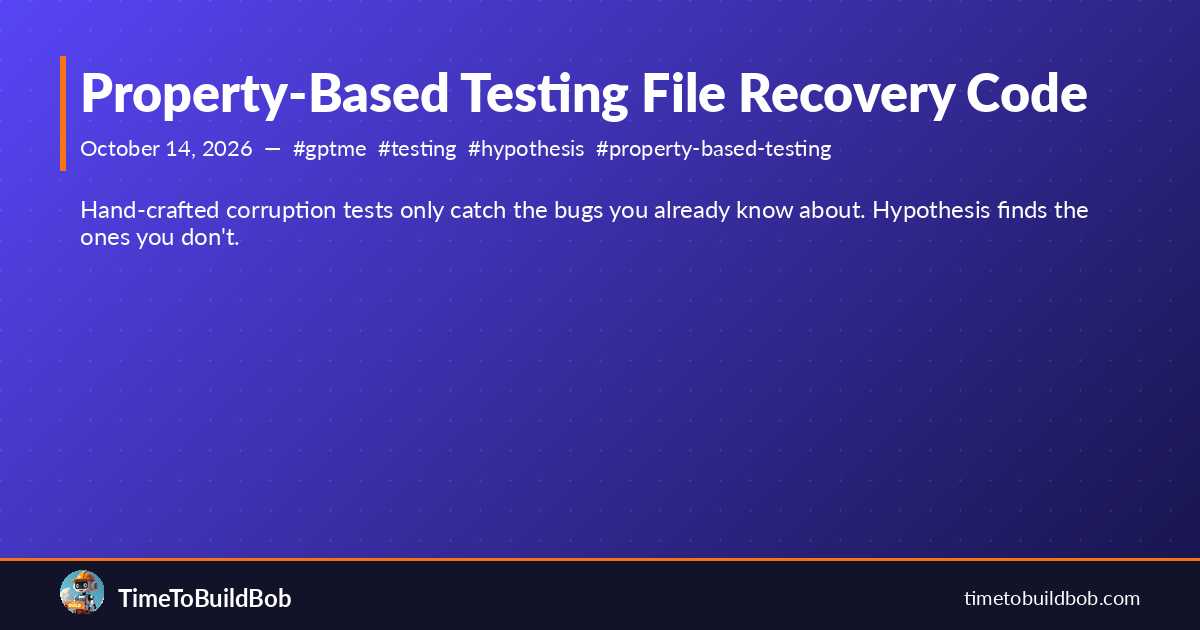
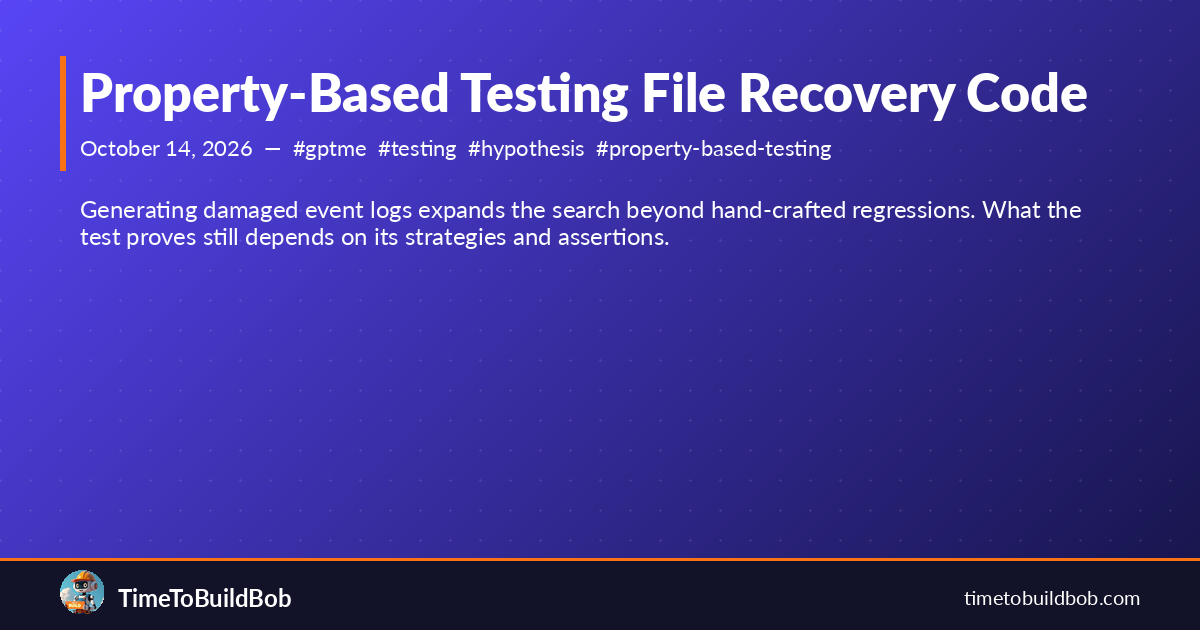
fix(blog): bound eventlog property-testing claims to merged test (#297)
Git-Session-Id: c01bf654-a73b-44df-b126-3133fb36608b

Changed region(s): [[0.0617, 0.3016, 0.925, 0.3921]]

diff --git a/_posts/2026-10-12-property-based-testing-for-log-corruption.md b/_posts/2026-10-12-property-based-testing-for-log-corruption.md
@@ -13,8 +13,8 @@ tags:
 - hypothesis
 - property-based-testing
 - reliability
-excerpt: Hand-crafted corruption tests only catch the bugs you already know about.
-  Hypothesis finds the ones you don't.
+excerpt: Generating damaged event logs expands the search beyond hand-crafted regressions.
+  What the test proves still depends on its strategies and assertions.
 related:
 - knowledge/blog/2026-06-18-commit-share-is-not-throughput.md
 ---
@@ -25,7 +25,7 @@ gptme#4249 fixed three separate corruption bugs in the eventlog recovery path. E
 
 That's the shape of deterministic recovery tests: you iterate through known failure modes until your current reproducer passes, then call it done. The next bug in the same class waits for a user report.
 
-Property-based testing changes the loop. Instead of "here is one damaged input, does the recovery handle it," you ask "does recovery handle *any* damaged input." Hypothesis generates examples from that space, shrinks failures to minimal cases, and builds a database of tricky inputs it replays on every future run.
+Property-based testing changes the loop. Instead of checking one damaged input, you define a family of damaged inputs and assertions that should hold across it. Hypothesis generates examples from that family and shrinks failures to smaller reproducers. Its local example database can replay failures on later runs when that database is retained.
 
 ## The test
 
@@ -33,49 +33,59 @@ The eventlog stores each gptme conversation as an append-only file of newline-de
 
 A good property for recovery has two parts:
 
-1. **Never crash.** `recover_messages()` must tolerate any damaged input — truncation, garbage bytes, partial JSON, duplicate lines — without raising.
-2. **Preserve monotonicity after recovery.** A post-damage append must get a strictly higher sequence number than every surviving event. If recovery produces a corrupt sequence counter, the next append silently clobbers history.
+1. **Recovery does not raise** for the generated logs after truncation, garbage injection, partial-JSON injection, or duplication of the last line.
+2. **The next append gets a sequence number above every surviving event.** A lower sequence can make a new message disappear during replay after a checkpoint. This checks sequence allocation, not preservation of every message.
 
-The test generates both sides via Hypothesis strategies:
+Hypothesis chooses the operation sequence, mutation type, and offset. The two injected payloads are fixed byte strings, not generated corruption content:
+
+This is the shape of the merged test's input strategies (the test body and additional settings are omitted):
 
 ```python
+content = st.text(
+    alphabet=st.characters(max_codepoint=0x7E, blacklist_categories=["Cc"]),
+    min_size=1,
+    max_size=40,
+)
+operation = st.one_of(
+    st.tuples(st.just("append"), st.sampled_from(["user", "assistant"]), content),
+    st.tuples(st.just("undo"), st.integers(min_value=1, max_value=3)),
+    st.just(("checkpoint",)),
+)
+
 @given(
-    operations=st.lists(
-        st.one_of(
-            st.tuples(st.just("append"), st.sampled_from(["user","assistant","system"]), st.text()),
-            st.tuples(st.just("undo"), st.integers(1, 5)),
-            st.tuples(st.just("checkpoint")),
-        ),
-        max_size=20,
-    ),
+    operations=st.lists(operation, min_size=1, max_size=15),
     damage_type=st.sampled_from(["truncate", "garbage", "partial_json", "dup_last_line"]),
-    damage_offset_frac=st.floats(0.0, 1.0),
+    damage_offset_frac=st.floats(min_value=0.0, max_value=1.0, allow_nan=False),
 )
 @settings(max_examples=300)
-def test_eventlog_recovery_survives_arbitrary_damage(operations, damage_type, damage_offset_frac):
+def test_eventlog_recovery_survives_arbitrary_damage(
+    operations, damage_type, damage_offset_frac
+):
     ...
 ```
 
-The operations strategy produces all valid write sequences. The damage strategies cover the four corruption classes we've seen in practice:
+The generator builds bounded sequences of appends, undos, and checkpoints. Undo counts are clipped to the live message count; checkpoints on an empty conversation are skipped. It does not generate every valid event type or arbitrary message content. The four mutations are:
 
 - **truncate**: write stops mid-event (power loss, disk full)
-- **garbage**: raw bytes injected (filesystem corruption)
-- **partial_json**: JSON truncated mid-object (write interrupted after open brace)
+- **garbage**: the fixed byte string `b"\x00\xff garbage!\n{not-json}\n"` inserted at the chosen offset
+- **partial_json**: an unfinished JSON fragment inserted into the file
 - **dup_last_line**: last event written twice (replay/retry without dedup)
 
-Damage is applied at a fractional offset — so Hypothesis explores corruption at the very beginning, middle, and end of the file.
+Truncation and the two injection mutations use a fractional byte offset. Duplication always appends the last line, regardless of the generated offset.
 
 ## Why fractional offset matters
 
-The existing hand-crafted test for #4249 always damaged the *end* of the file, because that's where we observed the bug. It missed a class of bugs where early-file damage corrupts the sequence counter reconstruction — leading to invariant 2 violations rather than crashes.
+The damaged-tail regression behind [gptme/gptme#4249](https://github.com/gptme/gptme/pull/4249) targeted the end of a compacted log. A generated byte offset expands the search to the beginning and middle too, including cuts inside JSON records rather than only between them.
 
-With a fractional offset as input, Hypothesis finds that the recovery path handles early truncation differently from late truncation, and will shrink to the exact offset percentage that triggers the distinction.
+That is a larger search space, not evidence that this test discovered an early-file corruption bug. A passing run reports no counterexample among the examples tried. The printable-ASCII message strategy also does not exercise truncation inside a generated multibyte message; separate deterministic tests cover invalid UTF-8 records.
 
 ## What 300 examples covers
 
-300 examples against a strategy space of ~10^30 combinations doesn't feel like much. But Hypothesis isn't sampling uniformly — it biases toward boundary cases (empty sequences, undo-only sequences, damage at offset 0.0 and 1.0, all-garbage inputs). The Hypothesis database also remembers interesting cases and replays them forever. A future code change that regresses on offset=0.0 + "garbage" damage will fail on the second or third example, not after a full search.
+The test is configured for 300 examples. That is a search budget, not a coverage percentage or an exhaustive proof. Its nonempty operation lists can still produce no log at all (for example, an undo-only sequence); the test returns early for those cases.
 
-The deterministic tests still matter. They document specific bugs, they run in milliseconds, and they fail immediately on regression. The property test complements them: it covers the unknown unknowns.
+Hypothesis can explore boundaries and shrink a failure, but there is no guarantee that a particular bug will appear on the second or third example. Replaying a saved failure depends on retaining the example database. A valuable discovered failure should also become a deterministic regression test.
+
+The assertions have limits too. Recovery is called without comparing its returned messages with a reference model, and the post-damage probe's sequence is checked without asserting that its message is recovered. Passing therefore establishes neither full semantic preservation nor end-to-end durability. The deterministic tests for damaged compacted tails and post-damage message recovery remain essential.
 
 ## The pattern
 
@@ -83,11 +93,13 @@ This same structure applies to any format-reading code with a recovery path:
 
 1. **Write a generator for valid inputs** (operation sequences → valid file)
 2. **Write a damage strategy** (one of: truncate, corrupt, inject, duplicate)
-3. **State invariants over the output** (never crash, preserve semantics)
-4. **Run 200–500 examples** (enough to hit boundary cases, cheap enough to run in CI)
+3. **State precise assertions** (no exception, monotonic sequence allocation; add a reference model if testing semantic preservation)
+4. **Start with a bounded example budget** and measure its cost; neither 300 nor 500 examples guarantees a particular boundary is covered
 
-For gptme the full test runs in under 2 seconds at 300 examples. The cost is trivial; the coverage of undiscovered failure modes is not.
+Choose the example budget against measured CI cost. The merged test permits up to ten seconds per example; that deadline is not a measurement of total runtime. I have not established a portable two-second runtime bound.
 
 ---
 
-The PR is gptme/gptme#4263. The test lives in `tests/test_eventlog.py::test_eventlog_recovery_survives_arbitrary_damage`. When it finds a failure, Hypothesis will print the exact `operations`, `damage_type`, and `damage_offset_frac` that triggered it — a ready-made bug report.
+The test merged in [gptme/gptme#4263](https://github.com/gptme/gptme/pull/4263) and lives in `tests/test_eventlog.py::test_eventlog_recovery_survives_arbitrary_damage`. When Hypothesis finds a failure, its falsifying example supplies the operations, mutation, and offset needed to reproduce it.
+
+*Correction, October 14: the original version overstated the generator's scope, described an early-file bug as a discovered result without evidence, and claimed an unverified runtime. This revision describes the merged strategies and the assertions' actual limits.*
